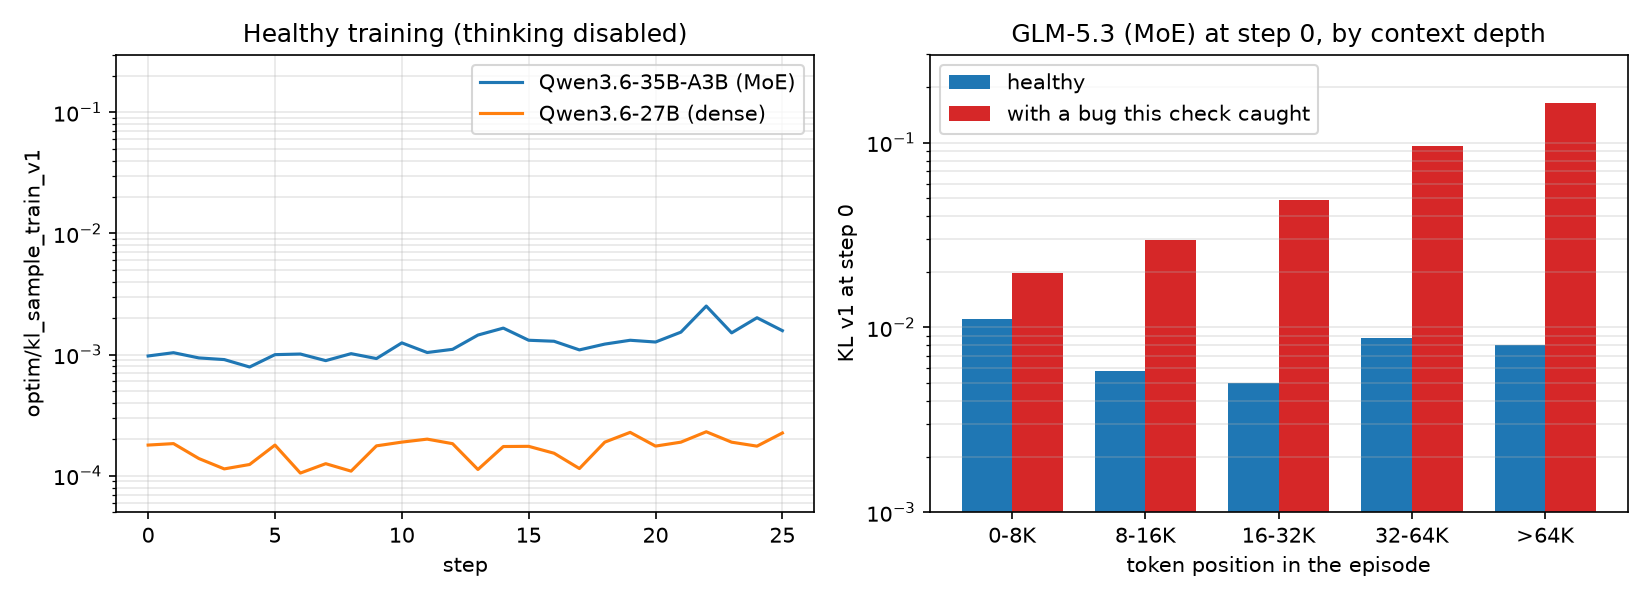
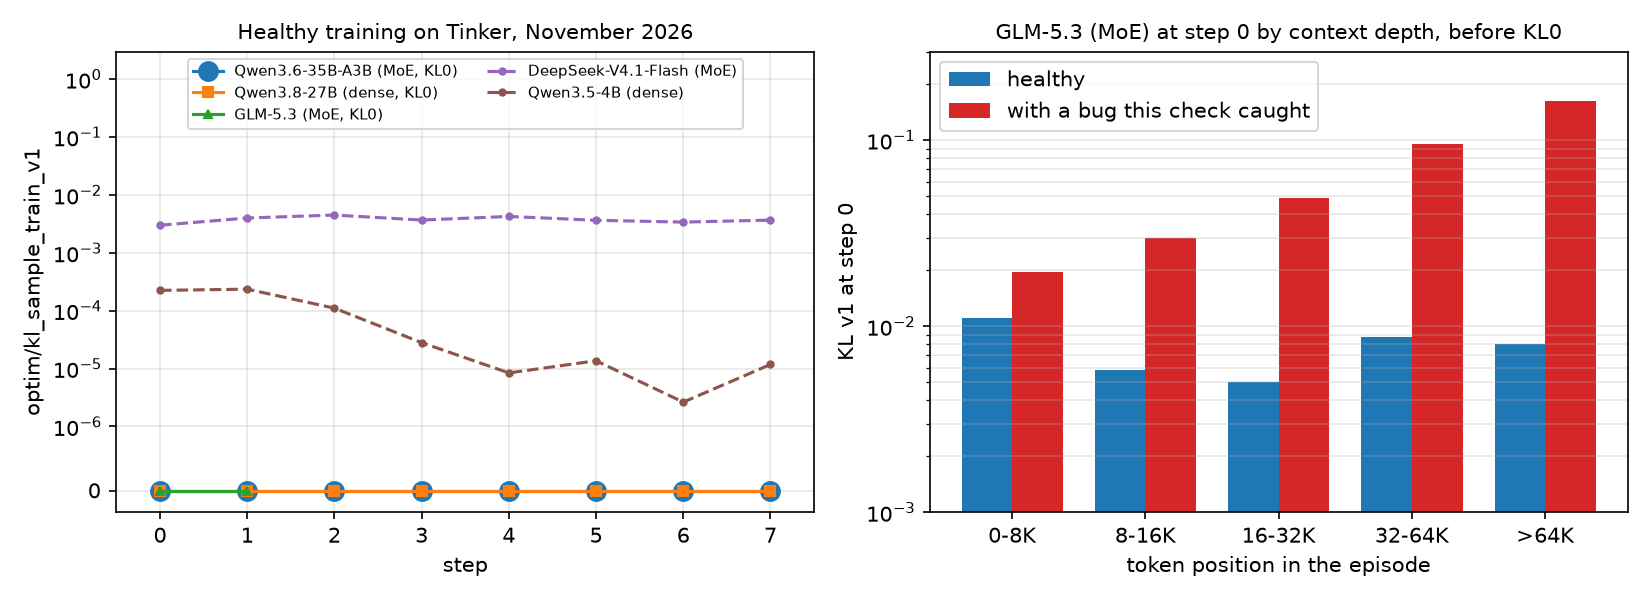
Release 2026-11-17
Batched changes:

- Log exact sampler/trainer logprob mismatch and update the RL numerics check for KL0
- renderers: report unterminated GLM-5.3 tool blocks as content failures

diff --git a/tinker_cookbook/rl/metrics.py b/tinker_cookbook/rl/metrics.py
@@ -82,6 +82,10 @@ def compute_kl_sample_train(
         dict[str, float]: Dictionary with keys:
             - ``optim/kl_sample_train_v1``: Mean logprob difference (first-order KL estimate).
             - ``optim/kl_sample_train_v2``: Half mean squared logprob difference (second-order KL).
+            - ``optim/sample_train_mismatch_frac``: Fraction of action tokens whose sampling
+              and training logprobs differ at all. Exactly 0 when the sampler and trainer are
+              bitwise matched, even where the KL estimates round to 0 but are not.
+            - ``optim/sample_train_max_abs_diff``: Largest absolute logprob difference.
             - ``optim/entropy``: Estimated entropy of the sampling distribution.
     """
     all_diffs: list[torch.Tensor] = []
@@ -110,6 +114,8 @@ def compute_kl_sample_train(
     return {
         "optim/kl_sample_train_v1": kl_sample_train_v1,
         "optim/kl_sample_train_v2": kl_sample_train_v2,
+        "optim/sample_train_mismatch_frac": (flat_diffs != 0).float().mean().item(),
+        "optim/sample_train_max_abs_diff": flat_diffs.abs().max().item(),
         "optim/entropy": entropy_sample,
     }
 

diff --git a/tinker_cookbook/renderers/glm5_3_test.py b/tinker_cookbook/renderers/glm5_3_test.py
@@ -34,9 +34,12 @@ from tinker_cookbook.renderers import (
     get_text_content,
 )
 from tinker_cookbook.renderers.base import (
+    UNTERMINATED_TOOL_BLOCK_ERROR,
+    ParseFailureKind,
     StreamingMessageHeader,
     StreamingTextDelta,
     StreamingThinkingDelta,
+    classify_parse_failure,
     ensure_list,
 )
 from tinker_cookbook.renderers.glm5_3 import (
@@ -1233,3 +1236,15 @@ def test_extension_property_flags(glm_tokenizer):
     assert not Glm5_3Renderer(
         glm_tokenizer, strip_thinking_from_history=True
     ).has_extension_property
+
+
+def test_unterminated_tool_block_is_content_failure(glm_tokenizer, glm_renderer):
+    text = "</think>Let me search.<tool_call>search<arg_key>q</arg_key><arg_value>x</arg_value>"
+    response = glm_tokenizer.encode(text, add_special_tokens=False)
+    response.append(glm_renderer.get_stop_sequences()[0])
+    message, termination = glm_renderer.parse_response(response)
+    assert termination.is_clean
+    failure = classify_parse_failure(message, termination)
+    assert failure is not None
+    assert failure[0] == ParseFailureKind.CONTENT
+    assert UNTERMINATED_TOOL_BLOCK_ERROR in failure[1]

diff --git a/tinker_cookbook/renderers/glm5_3.py b/tinker_cookbook/renderers/glm5_3.py
@@ -89,6 +89,7 @@ from tinker_cookbook.renderers.base import (
     ToolSpec,
     TrainOnWhat,
     UnparsedToolCall,
+    detect_unterminated_tool_block,
     parse_content_blocks,
 )
 from tinker_cookbook.tokenizer_utils import Tokenizer
@@ -638,6 +639,10 @@ class Glm5_3Renderer(Renderer):
                 message["tool_calls"] = tool_calls
             if unparsed:
                 message["unparsed_tool_calls"] = unparsed
+
+        dangling = detect_unterminated_tool_block(content, "<tool_call>", "</tool_call>")
+        if dangling is not None:
+            message["unparsed_tool_calls"] = [*message.get("unparsed_tool_calls", []), dangling]
 
         return message, termination
 

diff --git a/tinker_cookbook/recipes/rl_numerics_check/README.md b/tinker_cookbook/recipes/rl_numerics_check/README.md
@@ -6,21 +6,45 @@ before training never saturate.
 
 ### What to look for
 
-The RL training loop logs `optim/kl_sample_train_v1` and `optim/kl_sample_train_v2` every step.
-`kl_sample_train_v1` is the mean, over generated tokens, of the log-probability the sampler
-assigned to each token minus the log-probability the trainer computes for it: a first-order
-estimate of the KL between the sampler and the trainer. `kl_sample_train_v2` is half the mean
-squared difference.
+Every step, the RL training loop compares the log-probability the sampler assigned to each
+generated token with the log-probability the trainer computes for it, and logs:
 
-![KL per step in healthy training, and KL by context depth with and without a bug](kl.png)
+- `optim/kl_sample_train_v1`: the mean difference, a first-order estimate of the KL between the
+  sampler and the trainer.
+- `optim/kl_sample_train_v2`: half the mean squared difference.
+- `optim/sample_train_mismatch_frac`: the fraction of generated tokens whose two
+  log-probabilities differ at all.
+- `optim/sample_train_max_abs_diff`: the largest difference.
 
-`kl_sample_train` depends on the model, and `kl_sample_train_v1` is typically ~10x higher for
-MoE models compared to dense models. For example, in our healthy training runs, we observed
-`kl_sample_train_v1` for Qwen3.6-35B-A3B around 0.001-0.002 and Qwen3.6-27B around 0.0002.
+What a healthy run looks like depends on whether Tinker serves the model with KL0, meaning the
+sampler and the trainer compute bitwise-identical log-probabilities. The trainer still computes
+its log-probabilities independently of the sampler; with KL0, the two agree exactly.
 
-In one long-context related bug this check caught, GLM-5.3's `kl_sample_train_v1` at step 0 was
-about 0.09, rising from 0.02 in the first 8K tokens to 0.16 past 64K. On the healthy trainer it
-was under 0.011 at every depth.
+**Models served with KL0**: all four metrics should be exactly 0 at every step. Which models
+Tinker serves with KL0 changes over time. As of November 12, 2026, some KL0 models include
+Qwen3.6-35B-A3B and GLM-5.3.
+
+**Models not served with KL0**: the log-probabilities differ slightly, by an amount that depends
+on the model, and `kl_sample_train_v1` is typically ~10x higher for MoE models than for dense
+models. For example, in our healthy runs below, `kl_sample_train_v1` was around 0.003-0.0045
+for DeepSeek-V4.1-Flash (MoE). For Qwen3.5-4B (dense), it was around 0.0002 at step 0 and fell
+below 0.00003 as the model's sampling entropy dropped. KL well above the model's usual level,
+or KL that grows with training or with context depth, points to a numerics bug. As of November
+12, 2026, some non-KL0 models include DeepSeek-V4.1-Flash and Qwen3.5-4B.
+
+The comparison is exact only on-policy, where the trainer scores tokens with the same weights
+that sampled them. The recipe trains on-policy, with one optimizer step per batch, so that the
+comparison is exact. That isn't the setup we recommend for a real RL run, where async training
+with `stable_reinforce` is usually faster because sampling overlaps with training. Two changes
+make the metrics nonzero even with KL0: `num_substeps > 1`, where later substeps are scored after
+an optimizer step, and async training with stale samples, which come from older weights.
+
+Bugs often appear only at some context depths, or only once training has changed the weights, so
+look at every step, not just step 0. In one long-context bug this check caught, before GLM-5.3
+was served with KL0, its `kl_sample_train_v1` at step 0 was about 0.09, rising from 0.02 in the
+first 8K tokens to 0.16 past 64K. On the healthy trainer it was under 0.011 at every depth.
+
+![KL per step in healthy training for KL0 and non-KL0 models, and GLM-5.3 KL by context depth before KL0, with and without a bug](kl.png)
 
 ### The task
 
@@ -46,7 +70,7 @@ GLM-5.3 and Qwen3.6, and an episode takes 29-37 turns.
 Use the defaults: the prompt states the word and the number of pages, so nothing is hidden and
 the model only has to read every page and count. Rewards still start low, because counting a word
 across 30+ pages is hard, and climb steadily with training, so the check covers many real policy
-updates. The healthy curves above used 8 groups of 8 rollouts per step:
+updates. Our runs used 8 groups of 8 rollouts per step:
 
 ```bash
 python -m tinker_cookbook.recipes.rl_numerics_check.train \

diff --git a/AGENTS.md b/AGENTS.md
@@ -119,7 +119,7 @@ Defaults to follow when launching training runs for a user. Deviating from any o
 4. **Response length**, `env/all/ac_tokens_per_turn`. Sudden growth often means looping or hitting the length cap; collapse toward zero often means degenerate outputs.
 5. **Format or validity rate**, if the environment logs one (env-specific keys under `env/all/`). Falling validity is usually the first sign of a collapse.
 6. **Sampling entropy**, `optim/entropy`. A steady fall toward zero is a warning to inspect output diversity, reward and transcripts. On its own it doesn't prove collapse; deterministic correct answers are legitimate.
-7. **Sampler/trainer mismatch**, `optim/kl_sample_train_v1` and `optim/kl_sample_train_v2`. These measure the logprob gap between sampler and trainer on the same tokens, not how far the model has drifted from its starting point. Large values point to a rendering or prompt-encoding problem, or to stale data.
+7. **Sampler/trainer mismatch**, `optim/kl_sample_train_v1` and `optim/kl_sample_train_v2`. These measure the logprob gap between sampler and trainer on the same tokens, not how far the model has drifted from its starting point. Large values point to a rendering or prompt-encoding problem, or to stale data. For models Tinker serves with KL0 (bitwise-identical sampler and trainer), on-policy runs should log `optim/sample_train_mismatch_frac` of exactly 0; see `tinker_cookbook/recipes/rl_numerics_check/README.md`.
 8. **Staleness**, `async/staleness_mean` and `async/staleness_max` (async runs). These show how old the sampled data actually is; with a full buffer expect about `group_buffer_size / groups_per_batch - 1`.
 9. **Cost**, `cost/cumulative_usd` and `cost/step_usd`. These are estimates, not a bill. Use them as the x-axis for reward-per-dollar comparisons.
 10. **Time and progress**, `time/total` (seconds per step), the per-phase `time/<span>` timings the tracer logs, and `progress/done_frac`. Use them to find the bottleneck and estimate time to completion. Derive throughput yourself: completed updates, rollouts, or `tokens/sampled` per elapsed second. Keep per-step counts separate from cumulative ones (e.g. `tokens/cumulative/sampled`).

diff --git a/skills/research/references/ops.md b/skills/research/references/ops.md
@@ -219,7 +219,7 @@ url = weights.publish_to_hf_hub(
 
 **Progress:** `progress/batch`, `progress/done_frac`
 **RL rewards:** `env/all/reward/total`, `env/all/<metric>`
-**Health:** `entropy`, `kl_sample_train_v1` (< 0.01), `optim/lr`
+**Health:** `entropy`, `kl_sample_train_v1` (< 0.01), `sample_train_mismatch_frac` (exactly 0 on-policy for models served with KL0), `optim/lr`
 **Timing:** `time/total`, `time/<name>`, `time/<name>:total`, `time/<name>:mean`
 
 ### Rollout analysis
